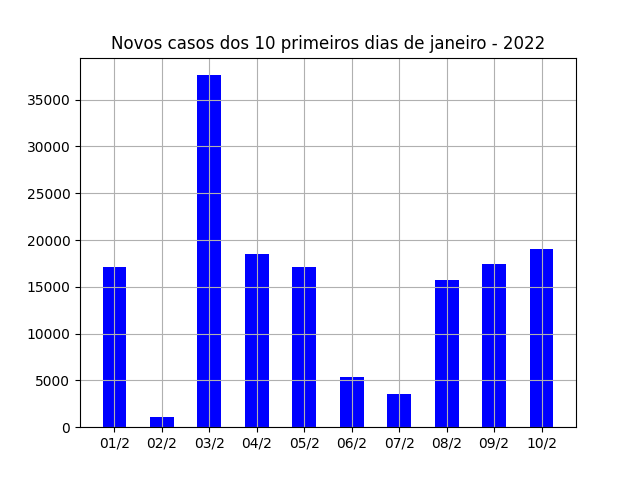
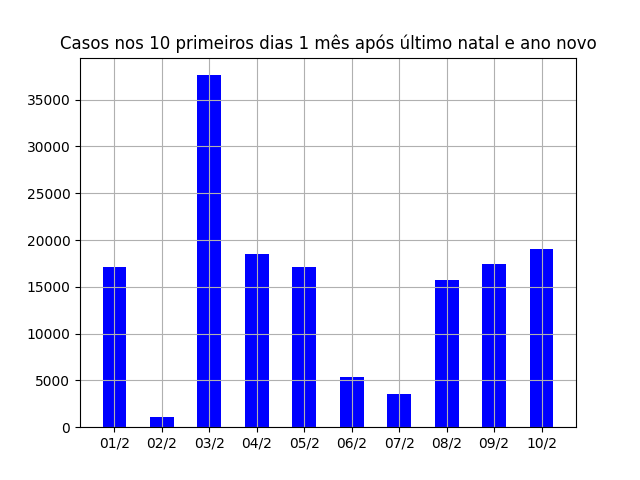
Add files via upload

Changed region(s): [[0.0938, 0.0625, 0.9375, 0.125]]

diff --git a/projeto/covid.py b/projeto/covid.py
@@ -109,14 +109,14 @@ dia= planilha['Data']
 casos= planilha['Novos casos']
 obitos= planilha['Óbitos']
 
-plt.title("Novos casos dos 10 primeiros dias de janeiro - 2022")
+plt.title("Casos nos 10 primeiros dias 1 mês após último natal e ano novo")
 plt.bar(dia, casos, color='blue', width=0.5)
 plt.grid()
 plt.savefig("casos.png")
 plt.show()
 
 
-plt.title("Óbitos nos 10 primeiros dias de janeiro - 2022")
+plt.title("Óbitos nos 10 primeiros dias 1 mês após último natal e ano novo")
 plt.bar(dia, obitos, color='red', width=0.5)
 plt.grid()
 plt.savefig("obitos.png")
